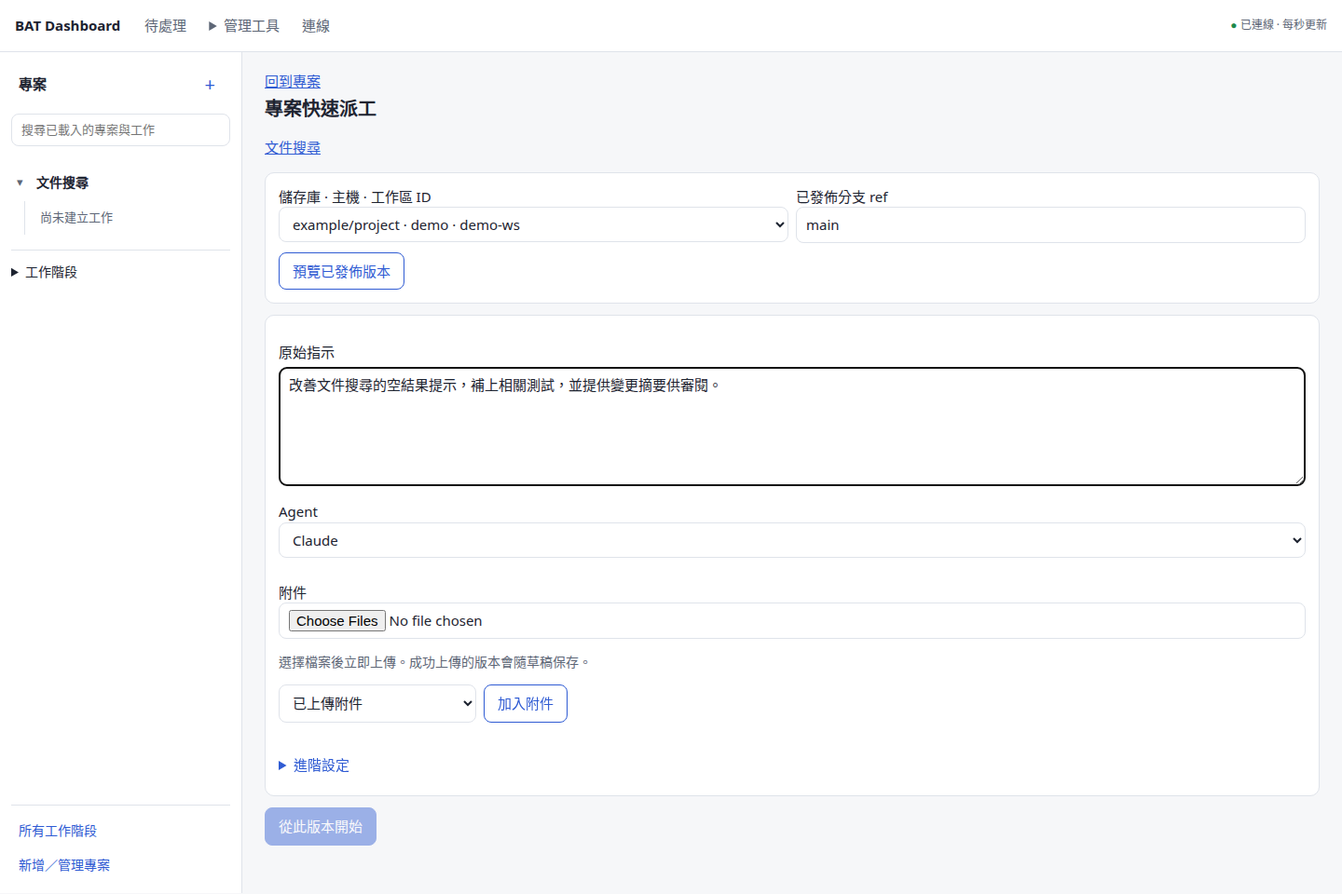
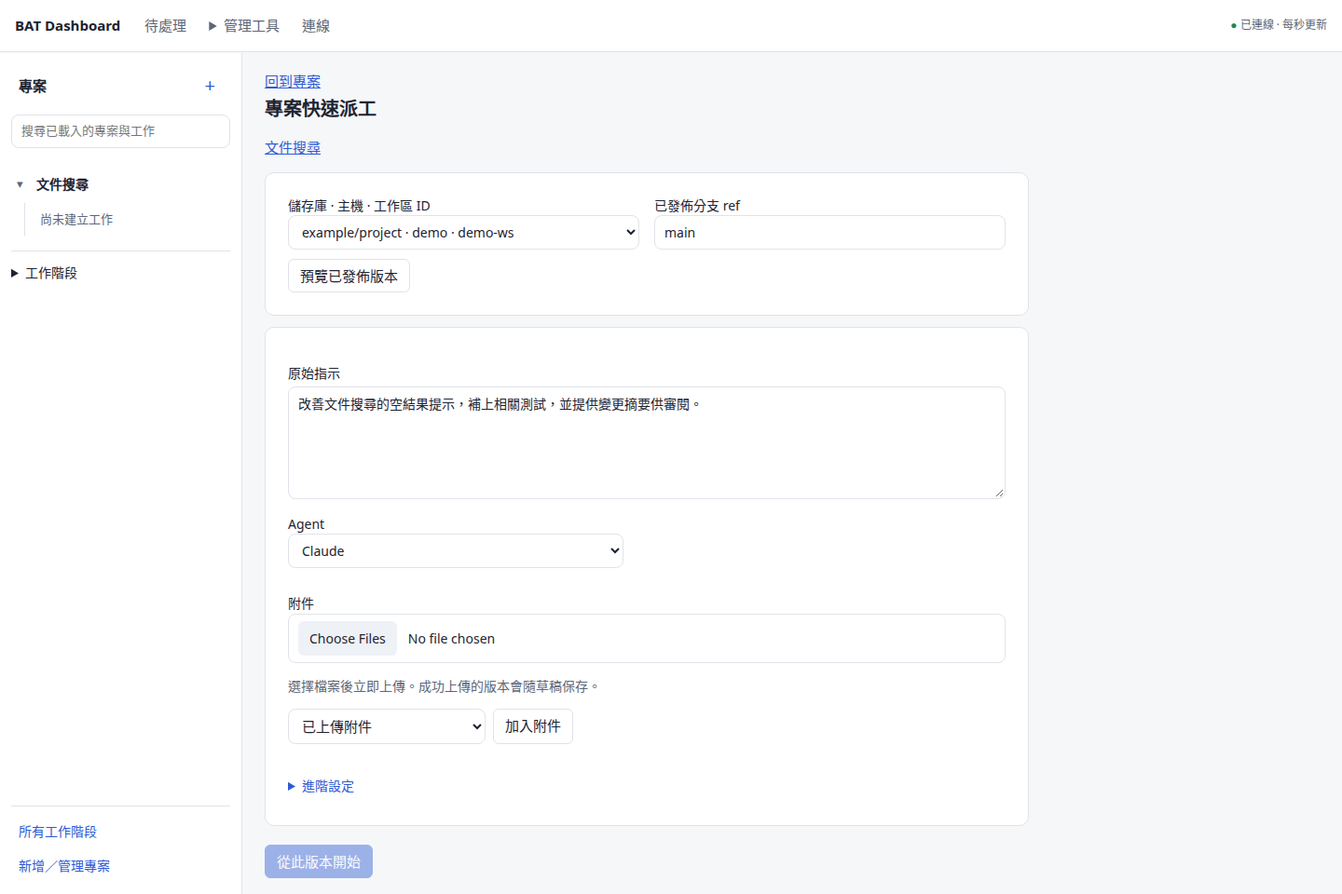
Unify the product tour and refresh all public screenshots

diff --git a/site/index.html b/site/index.html
@@ -27,17 +27,11 @@
 <div class="language-switch" role="group" aria-label="Language / 語言"><button type="button" data-language="en" aria-pressed="true">EN</button><button type="button" data-language="zh" aria-pressed="false">繁中</button></div>
 <a href="https://github.com/teddashh/bat-agent-connector" class="source-link">GitHub <span aria-hidden="true">↗</span></a></nav></div></header>
 <main id="main"><section class="hero section" id="top"><div class="hero-grid"><div>
-<p class="eyebrow"><span class="lang-en">Project management for agent work</span><span class="lang-zh" lang="zh-Hant">讓 Agent 工作接上專案管理</span></p>
 <h1><span class="lang-en">Keep the plan.<br>Follow the result.</span><span class="lang-zh" lang="zh-Hant">記得原計畫，<br>追到真成果。</span></h1>
 <p class="hero-description"><span class="lang-en">Discuss the goal, review the plan and connect agent work to delivery evidence. A shared Web and desktop workspace keeps decisions, progress and maintenance in view.</span><span class="lang-zh" lang="zh-Hant">討論目標、審閱計畫，把 Agent 工作接回交付證據。在共用的 Web 與桌面工作空間，掌握決策、進度與後續維護。</span></p>
 <div class="actions"><a href="#product" class="button primary"><span><span class="lang-en">Explore the workspace</span><span class="lang-zh" lang="zh-Hant">看看工作空間</span></span></a><a href="#start" class="text-link"><span><span class="lang-en">Install and start</span><span class="lang-zh" lang="zh-Hant">安裝與開始使用</span></span></a></div>
-<p class="hero-meta"><span class="lang-en">Open source · Web + Tauri · English / 繁體中文</span><span class="lang-zh" lang="zh-Hant">開源 · Web + Tauri · English / 繁體中文</span></p>
-</div><aside class="hero-aside" aria-label="Product focus / 產品重點">
-<div class="focus-row"><span class="index">01</span><div><h2><span class="lang-en">Make the agreement clear</span><span class="lang-zh" lang="zh-Hant">把共識說清楚</span></h2><p><span class="lang-en">Sourced discussion, reviewable proposals and an adopted plan.</span><span class="lang-zh" lang="zh-Hant">有來源的討論、可審閱提案與正式採用的計畫。</span></p></div></div>
-<div class="focus-row"><span class="index">02</span><div><h2><span class="lang-en">See what the evidence says</span><span class="lang-zh" lang="zh-Hant">看懂成果的依據</span></h2><p><span class="lang-en">Fixed requirements, responsible reviews and traceable delivery.</span><span class="lang-zh" lang="zh-Hant">固定需求、負責任的審閱，以及可追溯的交付。</span></p></div></div>
-<div class="focus-row"><span class="index">03</span><div><h2><span class="lang-en">Keep the work connected</span><span class="lang-zh" lang="zh-Hant">讓工作接續下去</span></h2><p><span class="lang-en">Agent-owned workspaces, bounded maintenance and the next decision.</span><span class="lang-zh" lang="zh-Hant">Agent 自有工作區、有界維護，以及下一個需要決定的事。</span></p></div></div>
-</aside></div><div class="release-note"><strong><span class="lang-en">Development preview</span><span class="lang-zh" lang="zh-Hant">開發預覽</span></strong><span><span class="lang-en">This tour shows merged main with demonstration data. PM v1.2 remains in integration; candidate features and validation are listed separately.</span><span class="lang-zh" lang="zh-Hant">本頁展示已合併主線與展示資料。PM v1.2 仍在整合；候選功能及驗證另列，下載前請核對來源。</span></span><a href="#status"><span><span class="lang-en">See current scope</span><span class="lang-zh" lang="zh-Hant">查看目前範圍</span></span></a></div></section>
-<section class="section" id="product"><div class="section-heading"><p class="eyebrow"><span class="lang-en">Inside the workspace</span><span class="lang-zh" lang="zh-Hant">介面導覽</span></p><h2><span class="lang-en">From the conversation to the work.</span><span class="lang-zh" lang="zh-Hant">從討論，看見工作怎麼前進。</span></h2><p class="lede"><span class="lang-en">The actual shared frontend, captured from 7d7f21f0 on October 12, 2026. All examples use synthetic data.</span><span class="lang-zh" lang="zh-Hant">以下為 2026 年 10 月 12 日從 7d7f21f0 拍攝的共用介面，全部使用合成展示資料。</span></p></div>
+</div></div></section>
+<section class="section product-tour" id="product" aria-label="Product tour / 介面導覽">
 <div class="tour-controls" role="group" aria-label="Screenshot view / 介面展示"><span class="tour-label"><span class="lang-en">View:</span><span class="lang-zh" lang="zh-Hant">檢視：</span></span>
 <button type="button" data-view="workspace" aria-pressed="true" aria-controls="view-workspace"><span><span class="lang-en">Project workspace</span><span class="lang-zh" lang="zh-Hant">專案工作空間</span></span></button>
 <button type="button" data-view="pm-planning" aria-pressed="false" aria-controls="view-pm-planning"><span><span class="lang-en">PM planning</span><span class="lang-zh" lang="zh-Hant">PM 計畫</span></span></button>
@@ -60,7 +54,7 @@
 <a class="lang-en image-link" href="images/dispatch-en.png" aria-label="Choose the destination and fixed published revision for the agent&#x27;s own work."><img src="images/dispatch-en.png" width="1440" height="960" loading="lazy" alt="Choose the destination and fixed published revision for the agent&#x27;s own work."></a>
 <a class="lang-zh image-link" href="images/dispatch-zh.png" aria-label="選擇目的地與固定已發布版本，開始 Agent 自有工作。"><img src="images/dispatch-zh.png" width="1440" height="960" loading="lazy" alt="選擇目的地與固定已發布版本，開始 Agent 自有工作。"></a>
 <figcaption><span><span class="lang-en">Choose the destination and fixed published revision for the agent's own work.</span><span class="lang-zh" lang="zh-Hant">選擇目的地與固定已發布版本，開始 Agent 自有工作。</span></span><span class="caption-meta"><span class="lang-en">Actual UI · demonstration data · open image for full size</span><span class="lang-zh" lang="zh-Hant">實際介面 · 展示資料 · 點圖看原尺寸</span></span></figcaption></figure>
-<a href="https://github.com/teddashh/bat-agent-connector/blob/main/site/images/README.md" class="text-link"><span><span class="lang-en">Screenshot sources and reproduction →</span><span class="lang-zh" lang="zh-Hant">截圖來源與重拍方式 →</span></span></a><div class="principles">
+<div class="release-note"><strong><span class="lang-en">Development preview</span><span class="lang-zh" lang="zh-Hant">開發預覽</span></strong><span><span class="lang-en">PM v1.2 is in integration. Check the current scope and validated packages before installing.</span><span class="lang-zh" lang="zh-Hant">PM v1.2 仍在整合。安裝前請查看目前範圍與已通過驗證的套件。</span></span><a href="#status"><span><span class="lang-en">Current scope</span><span class="lang-zh" lang="zh-Hant">目前範圍</span></span></a></div><a href="https://github.com/teddashh/bat-agent-connector/blob/main/site/images/README.md" class="text-link"><span><span class="lang-en">Screenshot sources and reproduction →</span><span class="lang-zh" lang="zh-Hant">截圖來源與重拍方式 →</span></span></a><div class="principles">
 <div><h3><span class="lang-en">Activity has a source</span><span class="lang-zh" lang="zh-Hant">活動要有來源</span></h3><p><span class="lang-en">A session going quiet does not establish completion.</span><span class="lang-zh" lang="zh-Hant">session 安靜下來，不能直接判斷已完成。</span></p></div>
 <div><h3><span class="lang-en">Acceptance has a reason</span><span class="lang-zh" lang="zh-Hant">驗收要有理由</span></h3><p><span class="lang-en">Record the criterion, result, evidence and responsible reviewer.</span><span class="lang-zh" lang="zh-Hant">保留條件、結果、證據與負責審閱者。</span></p></div>
 <div><h3><span class="lang-en">Recovery keeps the original</span><span class="lang-zh" lang="zh-Hant">恢復沿用原紀錄</span></h3><p><span class="lang-en">Read back an uncertain operation before starting another.</span><span class="lang-zh" lang="zh-Hant">結果未知時先查回原操作，再決定下一步。</span></p></div>

diff --git a/site/styles.css b/site/styles.css
@@ -1,7 +1,7 @@
 /* Product site. Tokens retain the original project palette and shared Dashboard accent. */
 :root {
   --ink: #0f1828;
-  --paper: #eff2f6;
+  --paper: #f6f7f9;
   --panel: #fff;
   --accent: #2f5bd3;
   --accent-soft: #bcd6ff;
@@ -15,8 +15,8 @@
   --text-sm: .9375rem;
   --text-body: 1.0625rem;
   --text-title: 1.25rem;
-  --text-section: clamp(1.75rem, 3.2vw, 2.625rem);
-  --text-hero: clamp(2.625rem, 5.6vw, 4.75rem);
+  --text-section: clamp(1.5rem, 2.8vw, 2rem);
+  --text-hero: clamp(2rem, 4vw, 3.5rem);
   --s1: 4px;
   --s2: 8px;
   --s3: 12px;
@@ -32,7 +32,7 @@
 }
 * { box-sizing: border-box; }
 html { scroll-behavior: smooth; scroll-padding-top: 96px; }
-body { margin: 0; color: var(--ink); background: var(--paper); font: var(--text-body)/1.65 var(--sans); }
+body { margin: 0; color: var(--ink); background: var(--panel); font: var(--text-body)/1.65 var(--sans); }
 html[data-lang="en"] .lang-zh, html[data-lang="zh"] .lang-en, [hidden] { display: none !important; }
 a { color: var(--accent); text-underline-offset: .2em; }
 a:hover { text-decoration-thickness: 2px; }
@@ -51,7 +51,7 @@ html[data-lang="zh"] h1 { letter-spacing: -.025em; line-height: 1.25; }
 html[data-lang="zh"] h2 { line-height: 1.35; letter-spacing: -.015em; }
 .skip-link { position: fixed; top: var(--s4); left: var(--s4); z-index: 10; background: var(--panel); padding: var(--s3) var(--s4); transform: translateY(-200%); }
 .skip-link:focus { transform: none; }
-.site-header { border-bottom: 1px solid var(--line); background: var(--paper); position: sticky; top: 0; z-index: 5; }
+.site-header { border-bottom: 1px solid var(--line); background: var(--panel); position: sticky; top: 0; z-index: 5; }
 .header-inner { max-width: var(--max); margin: auto; min-height: 80px; display: flex; align-items: center; justify-content: space-between; gap: var(--s5); padding: var(--s3) 0; }
 .brand { display: inline-flex; align-items: center; gap: var(--s3); color: var(--ink); text-decoration: none; font-size: var(--text-sm); font-weight: 700; line-height: 1.3; flex-shrink: 0; }
 .brand-sub { display: block; font-weight: 500; color: var(--muted); }
@@ -64,8 +64,14 @@ html[data-lang="zh"] h2 { line-height: 1.35; letter-spacing: -.015em; }
 .menu-button { display: none; border: 1px solid var(--line); border-radius: var(--control-radius); background: var(--panel); padding: var(--s2) var(--s4); min-height: 44px; }
 .section { width: min(calc(100% - 64px), var(--max)); margin-inline: auto; padding-block: var(--s8); }
 section.section + section.section { border-top: 1px solid var(--line); }
-.hero { padding-top: var(--s8); padding-bottom: var(--s7); }
-.hero-grid { display: grid; grid-template-columns: 1.65fr 1fr; gap: var(--s8); align-items: center; }
+.hero { padding-top: var(--s7); padding-bottom: var(--s6); }
+.section.product-tour { padding-top: var(--s5); border-top: 0; }
+.hero-grid > div { display: grid; grid-template-columns: 1fr 1fr; gap: 0 var(--s8); align-items: start; }
+.hero-grid .eyebrow { grid-column: 1 / -1; }
+.hero-grid h1 { grid-column: 1; grid-row: span 2; }
+.hero-grid .hero-description { margin-top: 0; font-size: var(--text-body); }
+.hero-grid .actions { margin-top: var(--s5); }
+.hero-grid .hero-meta { grid-column: 1 / -1; }
 .eyebrow { text-transform: uppercase; letter-spacing: .1em; font: 650 var(--text-xs)/1.5 var(--sans); color: var(--accent); margin-bottom: var(--s4); }
 .hero-description { font-size: var(--text-title); color: var(--muted); margin-top: var(--s5); max-width: 52ch; }
 .actions { display: flex; flex-wrap: wrap; align-items: center; gap: var(--s5); margin-top: var(--s6); }
@@ -92,8 +98,10 @@ section.section + section.section { border-top: 1px solid var(--line); }
 .lede { margin-top: var(--s4); color: var(--muted); }
 .tour-controls { display: none; flex-wrap: wrap; align-items: center; gap: var(--s2); margin-bottom: var(--s4); }
 .js .tour-controls { display: flex; }
-.tour-controls button { padding: var(--s2) var(--s4); min-height: 44px; border: 1px solid var(--line); border-radius: var(--control-radius); color: var(--ink); background: transparent; font-size: var(--text-sm); }
-.tour-controls [aria-pressed="true"] { border-color: var(--ink); background: var(--ink); color: var(--panel); }
+.tour-controls { border-bottom: 1px solid var(--line); gap: var(--s5); }
+.tour-controls button { padding: var(--s2) 0; min-height: 44px; border: 0; border-bottom: 2px solid transparent; color: var(--muted); background: transparent; font-size: var(--text-sm); }
+.tour-controls [aria-pressed="true"] { border-bottom-color: var(--accent); color: var(--accent); }
+.tour-controls button:hover { color: var(--ink); }
 .tour-label { color: var(--muted); font-size: var(--text-sm); margin-right: var(--s2); }
 .product-shot { overflow: hidden; border: 1px solid var(--line); border-radius: var(--radius); background: var(--panel); }
 .product-shot + .product-shot { margin-top: var(--s5); }
@@ -128,16 +136,16 @@ section.section + section.section { border-top: 1px solid var(--line); }
 .delivery-node { margin-top: var(--s5); padding-top: var(--s5); border-top: 1px solid var(--line); text-align: center; }
 .architecture figcaption { color: var(--muted); font-size: var(--text-sm); margin-top: var(--s5); }
 .two-column { display: grid; grid-template-columns: 1fr 1fr; gap: var(--s6) var(--s7); margin-top: var(--s6); }
-.installation-band { background: var(--ink); color: var(--on-dark); }
-.installation-band .eyebrow, .installation-band a.text-link { color: var(--accent-soft); }
-.installation-band .lede, .install-steps p, .install-current p { color: var(--on-dark); }
+.installation-band { background: var(--paper); color: var(--ink); border-block: 1px solid var(--line); }
+.installation-band .eyebrow, .installation-band a.text-link { color: var(--accent); }
+.installation-band .lede, .install-steps p, .install-current p { color: var(--muted); }
 .install-steps { display: grid; grid-template-columns: repeat(3, 1fr); gap: var(--s6); padding-left: var(--s5); margin: var(--s7) 0; }
 .install-steps li { padding-left: var(--s2); }
-.install-steps li::marker { color: var(--dark-muted); font-family: var(--mono); }
+.install-steps li::marker { color: var(--accent); font-family: var(--mono); }
 .install-steps p { font-size: var(--text-sm); margin-top: var(--s3); }
 .install-current { border-top: 1px solid var(--muted); padding-top: var(--s6); }
 .install-current p { margin-top: var(--s3); }
-.installation-band :focus-visible { outline-color: var(--accent-soft); }
+.installation-band :focus-visible { outline-color: var(--accent); }
 .table-wrap { overflow-x: auto; }
 table { border-collapse: collapse; width: 100%; font-size: var(--text-sm); }
 th, td { text-align: left; padding: var(--s4); border-bottom: 1px solid var(--line); vertical-align: top; }
@@ -165,6 +173,8 @@ summary { cursor: pointer; padding-block: var(--s4); min-height: 44px; font-weig
 .notfound p { margin-top: var(--s5); }
 @media (max-width: 1280px) { .header-inner { width: calc(100% - 64px); } .site-nav { gap: var(--s4); } }
 @media (max-width: 1000px) {
+  .hero-grid > div { display: block; }
+  .hero-grid .hero-description { margin-top: var(--s5); }
   .js .menu-button { display: inline-flex; align-items: center; }
   .header-inner { flex-wrap: wrap; }
   .site-nav { width: 100%; flex-wrap: wrap; padding-bottom: var(--s3); }

diff --git a/scripts/build_product_site.py b/scripts/build_product_site.py
@@ -54,7 +54,6 @@ parts = [
 <main id="main"><section class="hero section" id="top"><div class="hero-grid"><div>'''
 ]
 parts += [
-    bi("Project management for agent work", "讓 Agent 工作接上專案管理", "p", "eyebrow"),
     bi("Keep the plan.<br>Follow the result.", "記得原計畫，<br>追到真成果。", "h1"),
     bi(
         "Discuss the goal, review the plan and connect agent work to delivery evidence. A shared Web and desktop workspace keeps decisions, progress and maintenance in view.",
@@ -66,65 +65,20 @@ parts += [
     + link("#product", "Explore the workspace", "看看工作空間", "button primary")
     + link("#start", "Install and start", "安裝與開始使用", "text-link")
     + "</div>",
-    bi(
-        "Open source · Web + Tauri · English / 繁體中文",
-        "開源 · Web + Tauri · English / 繁體中文",
-        "p",
-        "hero-meta",
-    ),
-    '</div><aside class="hero-aside" aria-label="Product focus / 產品重點">',
+    '</div></div></section>',
 ]
-for n, en, zh, desc, dz in [
-    (
-        "01",
-        "Make the agreement clear",
-        "把共識說清楚",
-        "Sourced discussion, reviewable proposals and an adopted plan.",
-        "有來源的討論、可審閱提案與正式採用的計畫。",
-    ),
-    (
-        "02",
-        "See what the evidence says",
-        "看懂成果的依據",
-        "Fixed requirements, responsible reviews and traceable delivery.",
-        "固定需求、負責任的審閱，以及可追溯的交付。",
-    ),
-    (
-        "03",
-        "Keep the work connected",
-        "讓工作接續下去",
-        "Agent-owned workspaces, bounded maintenance and the next decision.",
-        "Agent 自有工作區、有界維護，以及下一個需要決定的事。",
-    ),
-]:
-    parts.append(
-        f'<div class="focus-row"><span class="index">{n}</span><div>'
-        + bi(en, zh, "h2")
-        + bi(desc, dz, "p")
-        + "</div></div>"
-    )
-parts.append(
-    '</aside></div><div class="release-note">'
+release_note = (
+    '<div class="release-note">'
     + bi("Development preview", "開發預覽", "strong")
     + bi(
-        "This tour shows merged main with demonstration data. PM v1.2 remains in integration; candidate features and validation are listed separately.",
-        "本頁展示已合併主線與展示資料。PM v1.2 仍在整合；候選功能及驗證另列，下載前請核對來源。",
+        "PM v1.2 is in integration. Check the current scope and validated packages before installing.",
+        "PM v1.2 仍在整合。安裝前請查看目前範圍與已通過驗證的套件。",
     )
-    + link("#status", "See current scope", "查看目前範圍")
-    + "</div></section>"
+    + link("#status", "Current scope", "目前範圍")
+    + "</div>"
 )
+parts.append('<section class="section product-tour" id="product" aria-label="Product tour / 介面導覽">')
 
-parts.append(
-    '<section class="section" id="product">'
-    + heading(
-        "Inside the workspace",
-        "介面導覽",
-        "From the conversation to the work.",
-        "從討論，看見工作怎麼前進。",
-        "The actual shared frontend, captured from 7d7f21f0 on October 12, 2026. All examples use synthetic data.",
-        "以下為 2026 年 10 月 12 日從 7d7f21f0 拍攝的共用介面，全部使用合成展示資料。",
-    )
-)
 shots = [
     (
         "workspace",
@@ -184,7 +138,8 @@ for key, _, _, en, zh in shots:
         + "</figcaption></figure>"
     )
 parts.append(
-    doc("site/images/README.md", "Screenshot sources and reproduction →", "截圖來源與重拍方式 →")
+    release_note
+    + doc("site/images/README.md", "Screenshot sources and reproduction →", "截圖來源與重拍方式 →")
     + '<div class="principles">'
 )
 for en, zh, d, dz in [

diff --git a/site/images/README.md b/site/images/README.md
@@ -1,7 +1,7 @@
 # Product screenshots
 
 These eight unedited PNGs show the real shared browser frontend at merged main
-`c0027daa61827bd2e505331012b7916bcf71ce9a`, captured on 2026-10-12 with synthetic API
+`662460311345db7dd0a9fe65ea8010dc3e5e4897`, captured on 2026-10-12 with synthetic API
 fixtures. They do not show customer data or establish native installation, live
 provider acceptance, completed delivery, or features from later branches.
 
@@ -9,12 +9,12 @@ provider acceptance, completed delivery, or features from later branches.
 | --- | --- |
 | `workspace-en.png`, `workspace-zh.png` | Project tree, original conversation, reply composer and result inspector. The example is still running and its result is unverified. |
 | `dispatch-en.png`, `dispatch-zh.png` | An unsubmitted project dispatch form with an explicit repository/host/workspace selection. No version preview or execution is requested. |
-| `pm-planning-en.png`, `pm-planning-zh.png` | A fixed Planning revision beside selected inputs and retained questions. It has not been adopted; acceptance criteria and budget remain undecided. |
-| `pm-kanban-en.png`, `pm-kanban-zh.png` | The existing workspace work-flow panel with in-progress and review rows, unassessed DoD, and explicit incomplete source coverage. Send acceptance is not delivery acceptance. |
+| `pm-planning-en.png`, `pm-planning-zh.png` | A fixed Planning revision with scope, proposed acceptance criteria and open decisions. It has not been adopted; acceptance and budget still need an owner review. |
+| `pm-kanban-en.png`, `pm-kanban-zh.png` | Seven synthetic work items in the existing five workflow columns, unassessed DoD, and explicit incomplete source coverage. Content approval is not delivery acceptance. |
 
 Public images are 1440 × 960. English uses browser locale `en-US`; Traditional
-Chinese uses `zh-TW`. Workspace uses the existing dark theme; the other scenes use
-the existing light theme. The capture opens normal disclosures, fills an
+Chinese uses `zh-TW`. All scenes use the existing light theme for a consistent
+tour; the application also supports the system dark theme. The capture opens normal disclosures, fills an
 unsubmitted form and scrolls the page. It does not replace, hide or rewrite DOM
 content. Fixture setup and the immutable draft are synthetic server responses.
 
@@ -30,12 +30,11 @@ To repeat this capture:
    Install the Playwright Chromium browser if it is not already available.
 2. Run `npm run check:browser` from `desktop/` to check the committed shared assets.
 3. From the repository root, run the following. Keep temporary data on disk; the
-   shared lock serializes this browser run with other local checks.
+   browser capture does not require a backend test run.
 
    ```sh
    mkdir -p "$HOME/agent-work/tmp/native-pm"
-   flock "$HOME/agent-work/tmp/pm-v12-check.lock" \
-     env TMPDIR="$HOME/agent-work/tmp/native-pm" \
+   env TMPDIR="$HOME/agent-work/tmp/native-pm" \
      CAPTURE_REVIEW_DIR="$HOME/agent-work/tmp/public-screenshot-review" \
      node --experimental-strip-types scripts/capture_site.mjs
    ```

diff --git a/README.md b/README.md
@@ -6,13 +6,13 @@
 
 Better Agent Dashboard is a project workspace for people working with coding agents. Discuss an idea, review a proposed plan, dispatch work into the agent's own workspace, and follow the result back to its requirements, tests and delivery. After release, adopted maintenance policies govern observations, repair work and review.
 
-The **Web and Tauri desktop apps share one interface and one Python backend**. You keep using [Better Agent Terminal (BAT)](https://github.com/tony1223/better-agent-terminal) for your own coding. Windows Fleet manages local connections and startup. Connector keeps project history, permissions and operations consistent across the Dashboard, CLI and MCP.
-
-> **Development preview.** This introduction describes merged source, with screenshots captured from `7d7f21f0` (October 12, 2026). PM v1.2 is still being integrated. The [progress report](docs/product/progress-2026-10-12.md) separates the public baseline, M4/M5 candidates and remaining work. Choose a successful package for an exact source commit; a newer draft PR is not a released build.
-
 ![Project workspace: project tree, conversation, reply and linked results.](site/images/workspace-en.png)
 
-*Actual shared frontend with synthetic demonstration data. All public screenshots were refreshed for this baseline; [source and reproduction instructions](site/images/README.md). Screenshots do not establish native installation or live acceptance.*
+*Actual UI · synthetic demonstration data · [capture source](site/images/README.md).*
+
+The **Web and Tauri desktop apps share one interface and one Python backend**. You keep using [Better Agent Terminal (BAT)](https://github.com/tony1223/better-agent-terminal) for your own coding. Windows Fleet manages local connections and startup. Connector keeps project history, permissions and operations consistent across the Dashboard, CLI and MCP.
+
+> **Development preview.** This introduction describes merged source, with screenshots captured from `66246031` (October 12, 2026). PM v1.2 is still being integrated. The [progress report](docs/product/progress-2026-10-12.md) separates the public baseline, M4/M5 candidates and remaining work. Choose a successful package for an exact source commit; a newer draft PR is not a released build.
 
 ## What it helps you answer
 
@@ -42,6 +42,8 @@ Each stage uses the same project history. Discussion does not automatically adop
 ![PM planning: inspect a fixed draft and its sources before adoption.](site/images/pm-planning-en.png)
 
 ![PM Kanban: follow work and its recorded evidence.](site/images/pm-kanban-en.png)
+
+![Project dispatch: instructions, destination and agent settings.](site/images/dispatch-en.png)
 
 ## Install and connect
 

diff --git a/site/DESIGN.md b/site/DESIGN.md
@@ -4,10 +4,11 @@ The public site explains Better Agent Dashboard; `desktop/DESIGN.md` remains the
 source of truth for the app. This site uses an editorial product layout, with real
 UI screenshots rather than a simulated console or decorative metrics.
 
-- Retain the original site's ink `#0f1828`, paper `#eff2f6` and pale blue `#bcd6ff`.
+- Retain the original site's ink `#0f1828` and pale blue `#bcd6ff`; use the app's
+  paper `#f6f7f9` and a white page throughout, including installation.
   Use the app's action `#2f5bd3`, muted `#5d6676`, border `#dfe3ea` and white panel.
   All colors, sizes, spacing and radii are tokens in `styles.css`.
-- System UI / Segoe UI / Noto Sans TC. Hero 42–76px; section 28–42px; body 17px;
+- System UI / Segoe UI / Noto Sans TC. Hero 32–56px; section 24–32px; body 17px;
   supporting copy 15px, labels 13px. Use a 4/8px spacing rhythm and 1180px max width.
 - Flat sections, thin rules and calm hierarchy. No gradients, decorative shadows,
   fabricated statistics, fake testimonials or mock product functionality.
@@ -15,9 +16,15 @@ UI screenshots rather than a simulated console or decorative metrics.
   have 44px hit targets; keyboard focus is explicit. Mobile navigation collapses.
 - Real screenshot gallery, semantic workflow list and an HTML architecture diagram.
   Label synthetic demonstration data and distinguish target installation from current
-  implementation. The first-run limitation is visible before the first CTA journey.
+  implementation. The development-preview scope is visible below the gallery and
+  before installation. Keep capture hashes and reproduction detail in the linked
+  source record, not the product introduction.
 - English and Traditional Chinese share structure. URL language overrides saved
   preference; language switching preserves the section hash. Content remains readable
   without JavaScript; both screenshots stay visible in that case.
 - Verify 390 / 768 / 1440px, both languages, keyboard interaction, image captions,
   overflow, broken local links and browser console errors before publishing.
+- Use one light theme across the screenshot tour. The app still follows the user's
+  system theme; mixing dark and light captures across tabs is not a theme control.
+  Start the tour immediately after the compact introduction. Underlined blue tab
+  selection and neutral controls keep the real product image as the focal point.

diff --git a/site/README.md b/site/README.md
@@ -11,7 +11,7 @@ agent-owned work, quality evidence, delivery and maintenance. It retains Windows
 Fleet, central authority, platform differences and installation guidance.
 
 Public feature descriptions and all eight screenshots use merged main
-`7d7f21f04ed955c41d5ddc584c7c1d6668e29cda`. M4/M5 appear only as clearly labelled
+`662460311345db7dd0a9fe65ea8010dc3e5e4897`. M4/M5 appear only as clearly labelled
 candidate work. Keep transient CI outcomes in the dated
 [progress report](../docs/product/progress-2026-10-12.md); link it from the site.
 The [handoff](../docs/handoff/2026-10-12-pm-v1.2.md) has development continuation
